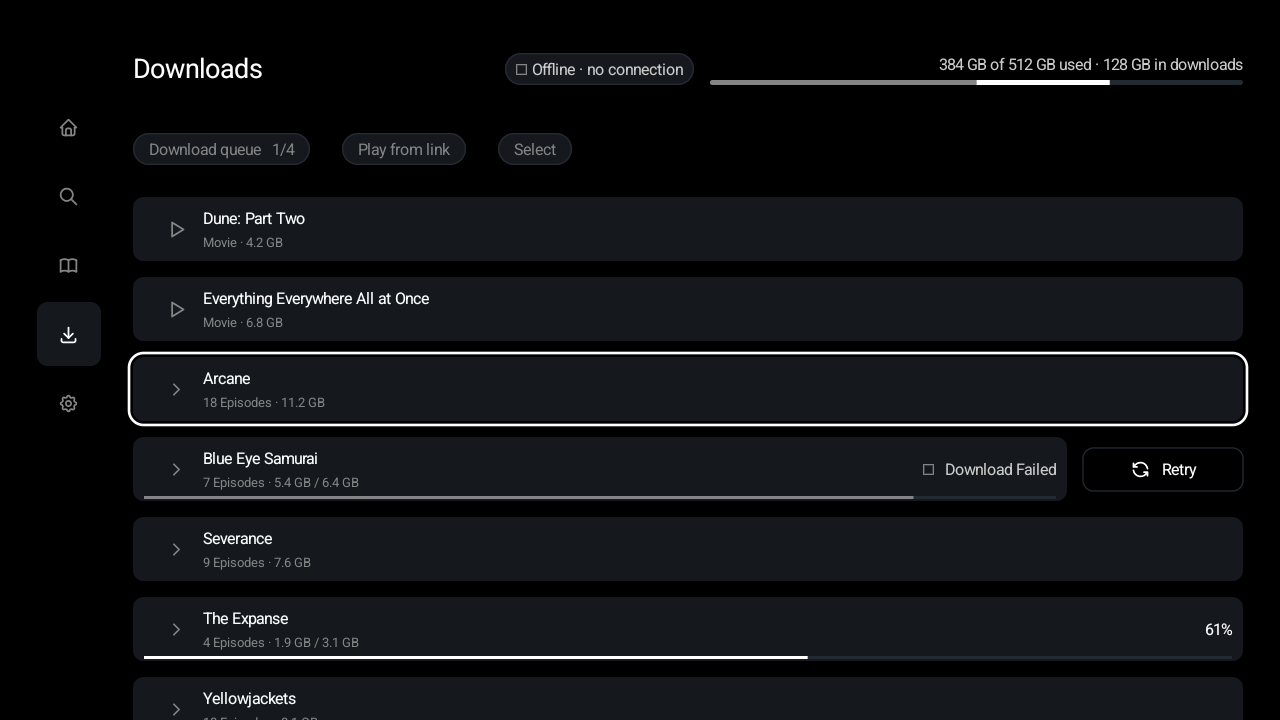
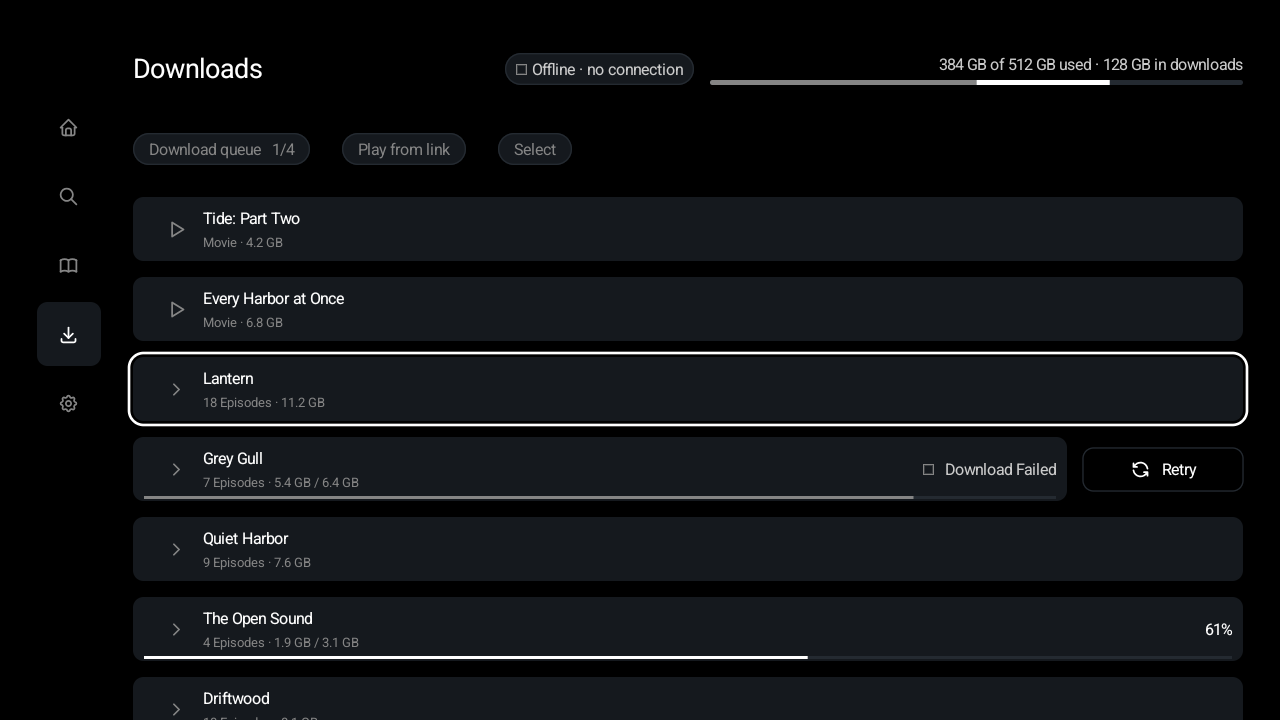
BUG-75: downloads device tests use made-up titles
The downloads and series device tests named real shows and episodes.
They now use made-up ones. Eight screenshots are re-recorded; every diff
was read and changes only the names.

diff --git a/feature/downloads/src/androidDeviceTest/kotlin/com/lagradost/cloudstream4/feature/downloads/tv/DownloadsScreenTvDeviceTest.kt b/feature/downloads/src/androidDeviceTest/kotlin/com/lagradost/cloudstream4/feature/downloads/tv/DownloadsScreenTvDeviceTest.kt
@@ -160,7 +160,7 @@ class DownloadsScreenTvDeviceTest {
         source.contents(Board6c)
         showScreen()
 
-        awaitText("Arcane")
+        awaitText("Lantern")
         rule.onNodeWithText("18 Episodes · 11.2 GB").assertExists()
         rule.onNodeWithText("Movie · 4.2 GB").assertExists()
         rule.onNodeWithText("4 Episodes · 1.9 GB / 3.1 GB").assertExists()
@@ -174,10 +174,10 @@ class DownloadsScreenTvDeviceTest {
         source.contents(Board6c)
         showScreen()
 
-        focus(ARCANE)
+        focus(LANTERN)
         dpad.center()
         rule.waitUntil(WAIT_MS) { effects.isNotEmpty() }
-        assertEquals(DownloadsEffect.OpenTitle(DownloadTitleId(ARCANE_ID)), effects.single())
+        assertEquals(DownloadsEffect.OpenTitle(DownloadTitleId(LANTERN_ID)), effects.single())
     }
 
     @Test
@@ -200,11 +200,11 @@ class DownloadsScreenTvDeviceTest {
     fun focusOnARowThatFitsDoesNotMoveTheList() {
         source.contents(Board6c)
         showScreen()
-        awaitText(DUNE)
-        val before = rule.onNodeWithText(DUNE).getBoundsInRoot().top
-        focus(EXPANSE)
+        awaitText(TIDE)
+        val before = rule.onNodeWithText(TIDE).getBoundsInRoot().top
+        focus(OPEN_SOUND)
         rule.waitForIdle()
-        assertEquals(before, rule.onNodeWithText(DUNE).getBoundsInRoot().top)
+        assertEquals(before, rule.onNodeWithText(TIDE).getBoundsInRoot().top)
     }
 
     /** A failed row's way back in, by remote: Right from the row, OK, and focus does not fall off with the button. */
@@ -213,18 +213,18 @@ class DownloadsScreenTvDeviceTest {
         source.contents(Board6c)
         showScreen()
 
-        focus(BLUE_EYE)
+        focus(GREY_GULL)
         rule.onNodeWithText(FAILED).assertExists()
         assertEquals(RETRY, dpad.press(Dpad.Right))
         dpad.center()
         rule.waitUntil(WAIT_MS) { source.resumed.isNotEmpty() }
-        assertEquals(listOf(DownloadTitleId(BLUE_EYE_ID)), source.resumed.toList())
+        assertEquals(listOf(DownloadTitleId(GREY_GULL_ID)), source.resumed.toList())
 
         source.contents(Board6c.copy(titles = Board6c.titles.map {
-            if (it.id.value == BLUE_EYE_ID) it.copy(state = DownloadTitleState.Running) else it
+            if (it.id.value == GREY_GULL_ID) it.copy(state = DownloadTitleState.Running) else it
         }))
         awaitGone(RETRY)
-        awaitFocus(BLUE_EYE)
+        awaitFocus(GREY_GULL)
     }
 
     @Test
@@ -232,8 +232,8 @@ class DownloadsScreenTvDeviceTest {
         source.contents(Board6c)
         showScreen()
 
-        focus(ARCANE)
-        assertEquals(ARCANE, dpad.press(Dpad.Right))
+        focus(LANTERN)
+        assertEquals(LANTERN, dpad.press(Dpad.Right))
     }
 
     @Test
@@ -283,8 +283,8 @@ class DownloadsScreenTvDeviceTest {
         source.contents(Board6c)
         showScreen()
 
-        focus(DUNE)
-        assertWalkIsClean(listOf(QUEUE, PLAY_URL, SELECT, DUNE, ARCANE, BLUE_EYE, RETRY, EXPANSE))
+        focus(TIDE)
+        assertWalkIsClean(listOf(QUEUE, PLAY_URL, SELECT, TIDE, LANTERN, GREY_GULL, RETRY, OPEN_SOUND))
     }
 
     // ---- 6e --------------------------------------------------------------------------------------------------------
@@ -320,12 +320,12 @@ class DownloadsScreenTvDeviceTest {
         source.contents(Board6c)
         showScreen()
 
-        awaitText(ARCANE)
+        awaitText(LANTERN)
         rule.onNodeWithText(OFFLINE).assertDoesNotExist()
         network.value = Connectivity.OFFLINE
         awaitText(OFFLINE)
         // The list stays, because it is what still works.
-        rule.onNodeWithText(ARCANE).assertExists()
+        rule.onNodeWithText(LANTERN).assertExists()
 
         source.contents(DownloadsContents())
         awaitText(NO_DOWNLOADS)
@@ -349,7 +349,7 @@ class DownloadsScreenTvDeviceTest {
         dpad.center()
         awaitText(SELECT_ALL)
         // The button went with the banner, and focus is on what to choose instead of nowhere.
-        awaitFocus(DUNE)
+        awaitFocus(TIDE)
     }
 
     @Test
@@ -366,8 +366,8 @@ class DownloadsScreenTvDeviceTest {
         source.contents(Board6c.copy(storageFull = StorageShortfall(1_200_000_000)))
         showScreen()
 
-        focus(DUNE)
-        assertWalkIsClean(listOf(PLAY_URL, "$QUEUE (1/4)", FREE_UP, DUNE, ARCANE, BLUE_EYE, RETRY, EXPANSE))
+        focus(TIDE)
+        assertWalkIsClean(listOf(PLAY_URL, "$QUEUE (1/4)", FREE_UP, TIDE, LANTERN, GREY_GULL, RETRY, OPEN_SOUND))
     }
 
     /** `DEC-17`: pixels, because a token can be swapped without anything else noticing. */
@@ -397,7 +397,7 @@ class DownloadsScreenTvDeviceTest {
         source.failure = null
         source.contents(Board6c)
         dpad.center()
-        awaitText(ARCANE)
+        awaitText(LANTERN)
         // The button left with its state, so focus went somewhere rather than nowhere.
         awaitFocus(PLAY_URL)
     }
@@ -412,10 +412,10 @@ class DownloadsScreenTvDeviceTest {
         focus(SELECT)
         dpad.center()
         awaitText(SELECT_ALL)
-        awaitFocus(DUNE)
+        awaitFocus(TIDE)
         dpad.center()
         awaitText("Delete (1 · 4.2 GB)")
-        rule.onNodeWithText(DUNE).assertIsSelected()
+        rule.onNodeWithText(TIDE).assertIsSelected()
         assertEquals("OK while choosing opens nothing", emptyList<DownloadsEffect>(), effects.toList())
 
         // The nearest chip, whichever it is, and every one is a press away along the row.
@@ -424,7 +424,7 @@ class DownloadsScreenTvDeviceTest {
         assertEquals("Delete (1 · 4.2 GB)", if (chip == "Delete (1 · 4.2 GB)") chip else pressUntil(Dpad.Right, "Delete (1 · 4.2 GB)"))
         dpad.center()
         rule.waitUntil(WAIT_MS) { effects.isNotEmpty() }
-        assertEquals(DownloadsEffect.ConfirmDelete(setOf(DownloadTitleId(DUNE_ID))), effects.single())
+        assertEquals(DownloadsEffect.ConfirmDelete(setOf(DownloadTitleId(TIDE_ID))), effects.single())
     }
 
     @Test
@@ -449,8 +449,8 @@ class DownloadsScreenTvDeviceTest {
         awaitText(RETRY)
         viewModel.onAction(DownloadsAction.SelectionStarted)
         awaitGone(RETRY)
-        focus(BLUE_EYE)
-        assertEquals(BLUE_EYE, dpad.press(Dpad.Right))
+        focus(GREY_GULL)
+        assertEquals(GREY_GULL, dpad.press(Dpad.Right))
     }
 
     /** A delete arriving from elsewhere, or confirmed in the dialog, while a row holds focus. */
@@ -459,10 +459,10 @@ class DownloadsScreenTvDeviceTest {
         source.contents(Board6c)
         showScreen()
 
-        focus(ARCANE)
-        source.contents(Board6c.copy(titles = Board6c.titles.filterNot { it.id.value == ARCANE_ID }))
-        awaitGone(ARCANE)
-        awaitFocus(DUNE)
+        focus(LANTERN)
+        source.contents(Board6c.copy(titles = Board6c.titles.filterNot { it.id.value == LANTERN_ID }))
+        awaitGone(LANTERN)
+        awaitFocus(TIDE)
     }
 
     @Test
@@ -528,10 +528,10 @@ class DownloadsScreenTvDeviceTest {
         source.contents(Board6c)
         showScreen()
 
-        focus(ARCANE)
+        focus(LANTERN)
         dpad.center()
         rule.waitUntil(WAIT_MS) { effects.isNotEmpty() }
-        source.contents(Board6c.copy(titles = Board6c.titles.filterNot { it.id.value == ARCANE_ID }))
+        source.contents(Board6c.copy(titles = Board6c.titles.filterNot { it.id.value == LANTERN_ID }))
 
         leaveAndComeBack()
         // Its requester is not attached, so the fallback is the entry.
@@ -549,7 +549,7 @@ class DownloadsScreenTvDeviceTest {
     fun screenshotTitlesFocusOnTheRunningRow() {
         source.contents(Board6c)
         showForScreenshot()
-        holdFocusOn(EXPANSE)
+        holdFocusOn(OPEN_SOUND)
         rule.assertScreenshot("downloads-titles-focus-running-row")
     }
 
@@ -566,7 +566,7 @@ class DownloadsScreenTvDeviceTest {
         network.value = Connectivity.OFFLINE
         source.contents(Board6c)
         showForScreenshot()
-        holdFocusOn(ARCANE)
+        holdFocusOn(LANTERN)
         rule.assertScreenshot("downloads-offline-over-titles")
     }
 
@@ -603,7 +603,7 @@ class DownloadsScreenTvDeviceTest {
         holdFocusOn(SELECT)
         dpad.center()
         awaitText(SELECT_ALL)
-        awaitFocus(DUNE)
+        awaitFocus(TIDE)
         dpad.center()
         awaitText("Delete (1 · 4.2 GB)")
         rule.waitForIdle()
@@ -681,13 +681,13 @@ class DownloadsScreenTvDeviceTest {
         const val NOT_ENOUGH = "Not enough storage"
         const val FREE_UP = "Free up space"
 
-        const val DUNE_ID = 1
-        const val DUNE = "Dune: Part Two"
-        const val ARCANE_ID = 3
-        const val ARCANE = "Arcane"
-        const val BLUE_EYE_ID = 4
-        const val BLUE_EYE = "Blue Eye Samurai"
-        const val EXPANSE = "The Expanse"
+        const val TIDE_ID = 1
+        const val TIDE = "Tide: Part Two"
+        const val LANTERN_ID = 3
+        const val LANTERN = "Lantern"
+        const val GREY_GULL_ID = 4
+        const val GREY_GULL = "Grey Gull"
+        const val OPEN_SOUND = "The Open Sound"
         const val LONG_NAME = "The Extraordinarily Long Title Of A Series Whose Name Will Never Fit On A Row However " +
             "Wide The Television Is, Which Goes On And On Past The Point Where Anyone Would Still Be Reading It, And " +
             "Then Carries On A Good Deal Further Than That Just To Be Certain That It Runs Off The End"
@@ -715,12 +715,12 @@ class DownloadsScreenTvDeviceTest {
         /** The board's own rows, in the order the view model sorts them. */
         val Board6c = DownloadsContents(
             titles = listOf(
-                title(DUNE_ID, DUNE, done = gb(42), total = gb(42)),
-                title(2, "Everything Everywhere All at Once", done = gb(68), total = gb(68)),
-                title(ARCANE_ID, ARCANE, kind = DownloadTitleKind.Series, episodes = 18, done = gb(112), total = gb(112)),
+                title(TIDE_ID, TIDE, done = gb(42), total = gb(42)),
+                title(2, "Every Harbor at Once", done = gb(68), total = gb(68)),
+                title(LANTERN_ID, LANTERN, kind = DownloadTitleKind.Series, episodes = 18, done = gb(112), total = gb(112)),
                 title(
-                    BLUE_EYE_ID,
-                    BLUE_EYE,
+                    GREY_GULL_ID,
+                    GREY_GULL,
                     DownloadTitleState.Failed,
                     DownloadTitleKind.Series,
                     episodes = 7,
@@ -728,10 +728,10 @@ class DownloadsScreenTvDeviceTest {
                     total = gb(64),
                     progress = 54f / 64f,
                 ),
-                title(5, "Severance", kind = DownloadTitleKind.Series, episodes = 9, done = gb(76), total = gb(76)),
+                title(5, "Quiet Harbor", kind = DownloadTitleKind.Series, episodes = 9, done = gb(76), total = gb(76)),
                 title(
                     6,
-                    EXPANSE,
+                    OPEN_SOUND,
                     DownloadTitleState.Running,
                     DownloadTitleKind.Series,
                     episodes = 4,
@@ -739,7 +739,7 @@ class DownloadsScreenTvDeviceTest {
                     total = gb(31),
                     progress = 0.61f,
                 ),
-                title(7, "Yellowjackets", kind = DownloadTitleKind.Series, episodes = 10, done = gb(81), total = gb(81)),
+                title(7, "Driftwood", kind = DownloadTitleKind.Series, episodes = 10, done = gb(81), total = gb(81)),
             ),
             storage = DownloadStorage(usedBytes = 384 * GB, totalBytes = 512 * GB, downloadBytes = 128 * GB),
             queue = DownloadQueue(running = 1, total = 4),

diff --git a/feature/downloads/src/androidDeviceTest/kotlin/com/lagradost/cloudstream4/feature/downloads/series/tv/DownloadSeriesScreenTvDeviceTest.kt b/feature/downloads/src/androidDeviceTest/kotlin/com/lagradost/cloudstream4/feature/downloads/series/tv/DownloadSeriesScreenTvDeviceTest.kt
@@ -166,7 +166,7 @@ class DownloadSeriesScreenTvDeviceTest {
     fun theBandSaysWhatIsOnDiskAndWhatIsMovingOrStuck() {
         source.contents(Board6d)
         showScreen()
-        awaitText("Downloads · Breaking Bad")
+        awaitText("Downloads · Low Tide")
         awaitText("5 Episodes · 980 MB on disk")
         awaitText("1 active download · 1 download queued · 1 failed")
         awaitText("Retry failed (1)")
@@ -488,10 +488,10 @@ class DownloadSeriesScreenTvDeviceTest {
         const val OFFLINE = "Offline · no connection"
 
         const val PILOT = "S1 · E1 · Pilot"
-        const val RUNNING = "S1 · E2 · Cat's in the Bag"
-        const val FAILED = "S1 · E3 · And the Bag's in the River"
-        const val QUEUED = "S1 · E4 · Cancer Man"
-        const val PAUSED = "S1 · E5 · Gray Matter"
+        const val RUNNING = "S1 · E2 · Ropes in the Hold"
+        const val FAILED = "S1 · E3 · And the Hold in the Bay"
+        const val QUEUED = "S1 · E4 · Harbor Man"
+        const val PAUSED = "S1 · E5 · Grey Water"
         const val LONG_NAME = "An Extraordinarily Long Episode Title That Will Never Fit On One Row However Wide The Television " +
             "Is, Which Goes On And On Well Past The Point Where Anyone Would Still Be Reading It"
 
@@ -516,15 +516,15 @@ class DownloadSeriesScreenTvDeviceTest {
         )
 
         val Board6d = DownloadSeriesContents(
-            name = "Breaking Bad",
+            name = "Low Tide",
             episodes = listOf(
                 episode(1, "Pilot", DownloadEpisodeState.Done).copy(watched = 0.38f),
-                episode(2, "Cat's in the Bag", DownloadEpisodeState.Running, done = 128 * MB)
+                episode(2, "Ropes in the Hold", DownloadEpisodeState.Running, done = 128 * MB)
                     .copy(bytesPerSecond = 4_200_000L, secondsLeft = 90L),
-                episode(3, "And the Bag's in the River", DownloadEpisodeState.Failed, done = 96 * MB)
+                episode(3, "And the Hold in the Bay", DownloadEpisodeState.Failed, done = 96 * MB)
                     .copy(failure = DownloadFailure.NetworkLost),
-                episode(4, "Cancer Man", DownloadEpisodeState.Queued, done = 0L).copy(queue = QueuePosition(2, 3)),
-                episode(5, "Gray Matter", DownloadEpisodeState.Paused, done = 256 * MB),
+                episode(4, "Harbor Man", DownloadEpisodeState.Queued, done = 0L).copy(queue = QueuePosition(2, 3)),
+                episode(5, "Grey Water", DownloadEpisodeState.Paused, done = 256 * MB),
             ),
         )
 
